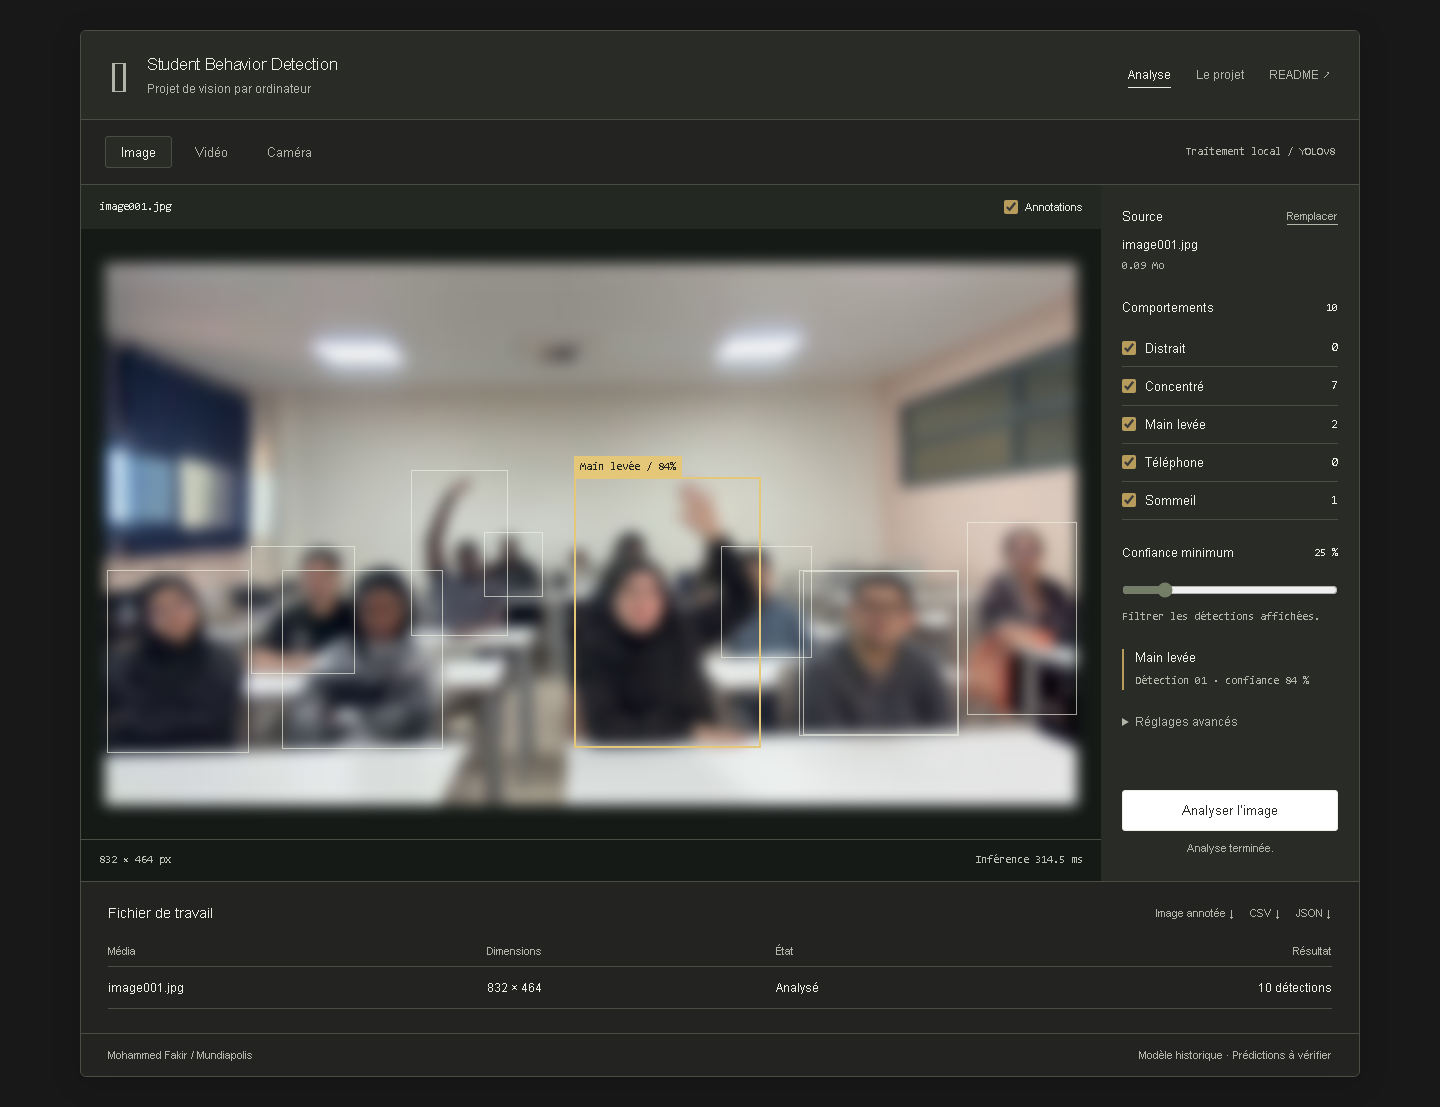
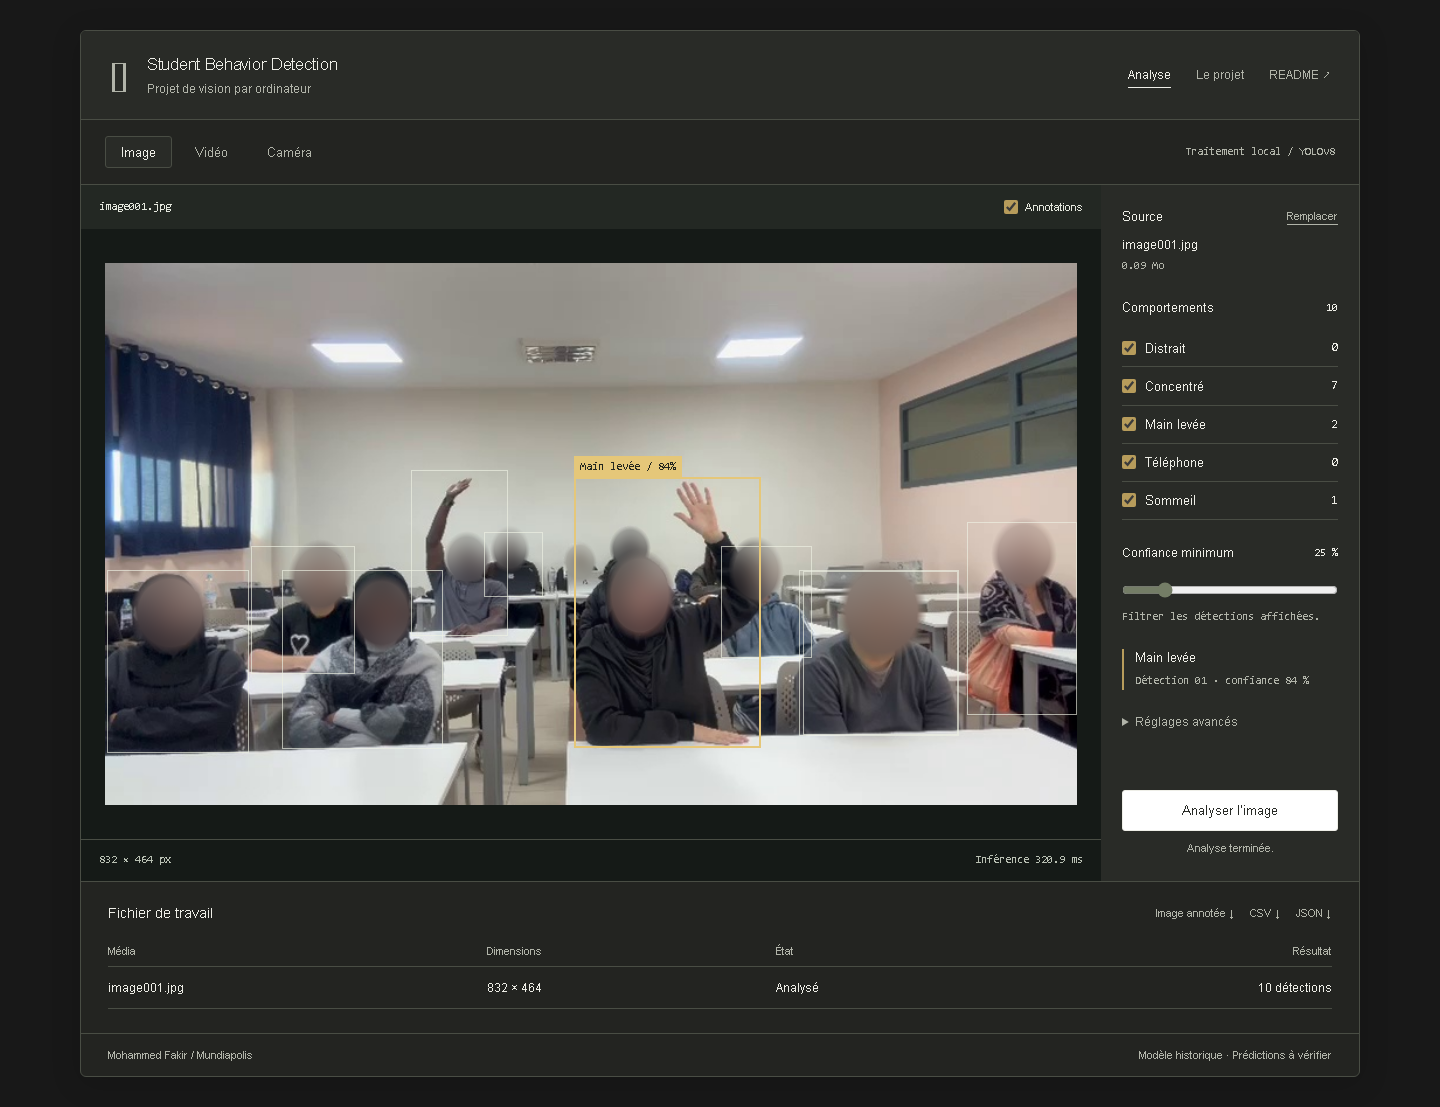
Blur only faces in README screenshots

diff --git a/README.md b/README.md
@@ -6,7 +6,7 @@ The interface keeps the media in the foreground: select a detection, inspect its
 
 ![Image analysis in the React workspace](assets/interface-image.png)
 
-*Real predictions from the included historical weights on a project image. The media is blurred in documentation captures; the interface, counts and annotations are real.*
+*Real predictions from the included historical weights on a project image. Only faces are blurred in the screenshots.*
 
 ## See it in use
 
